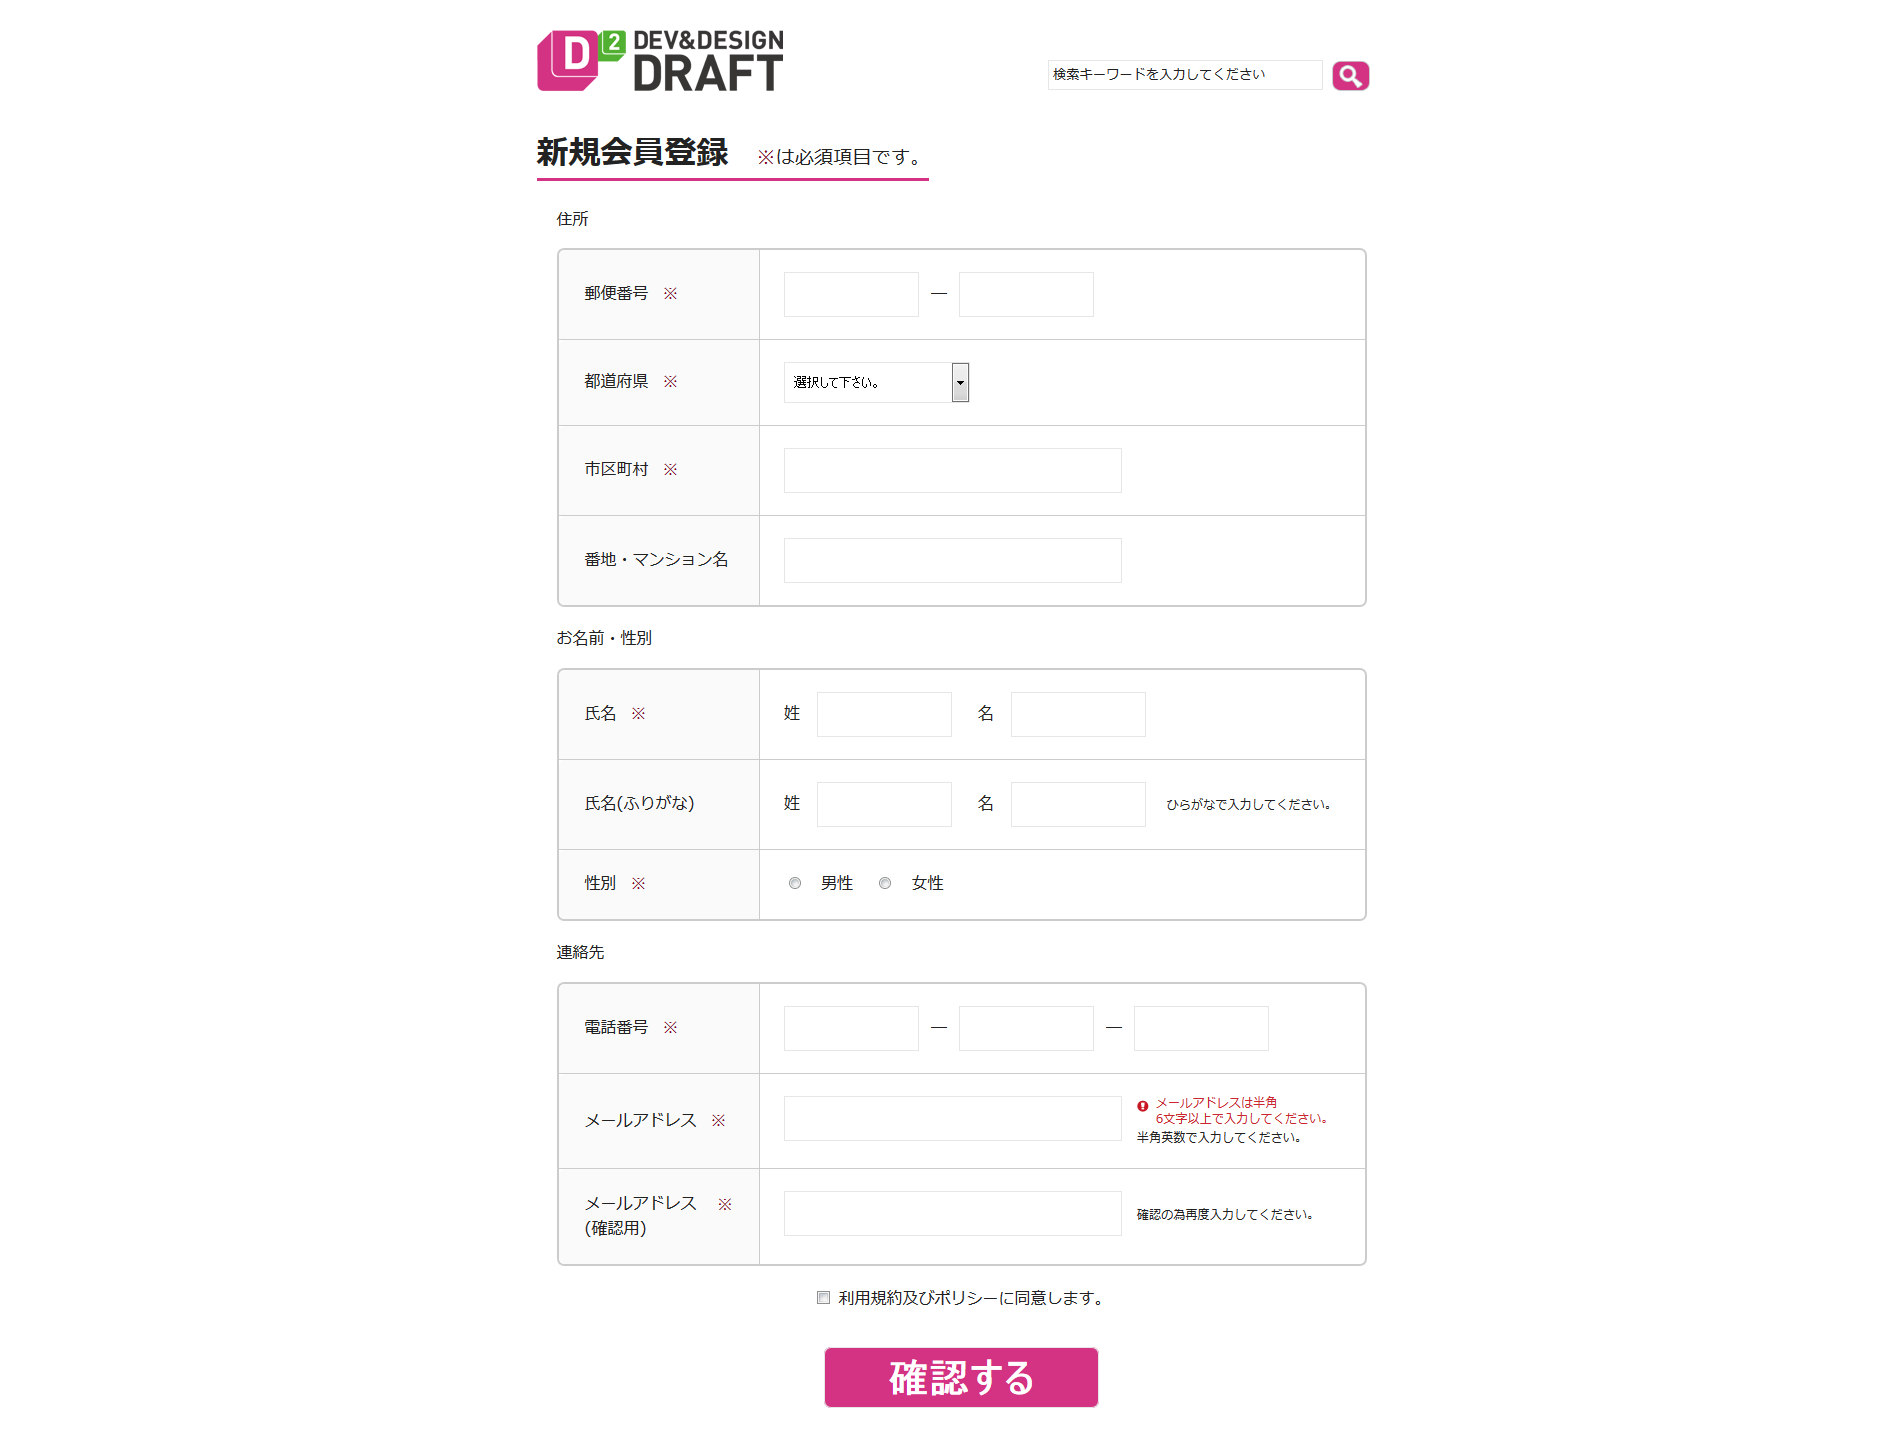
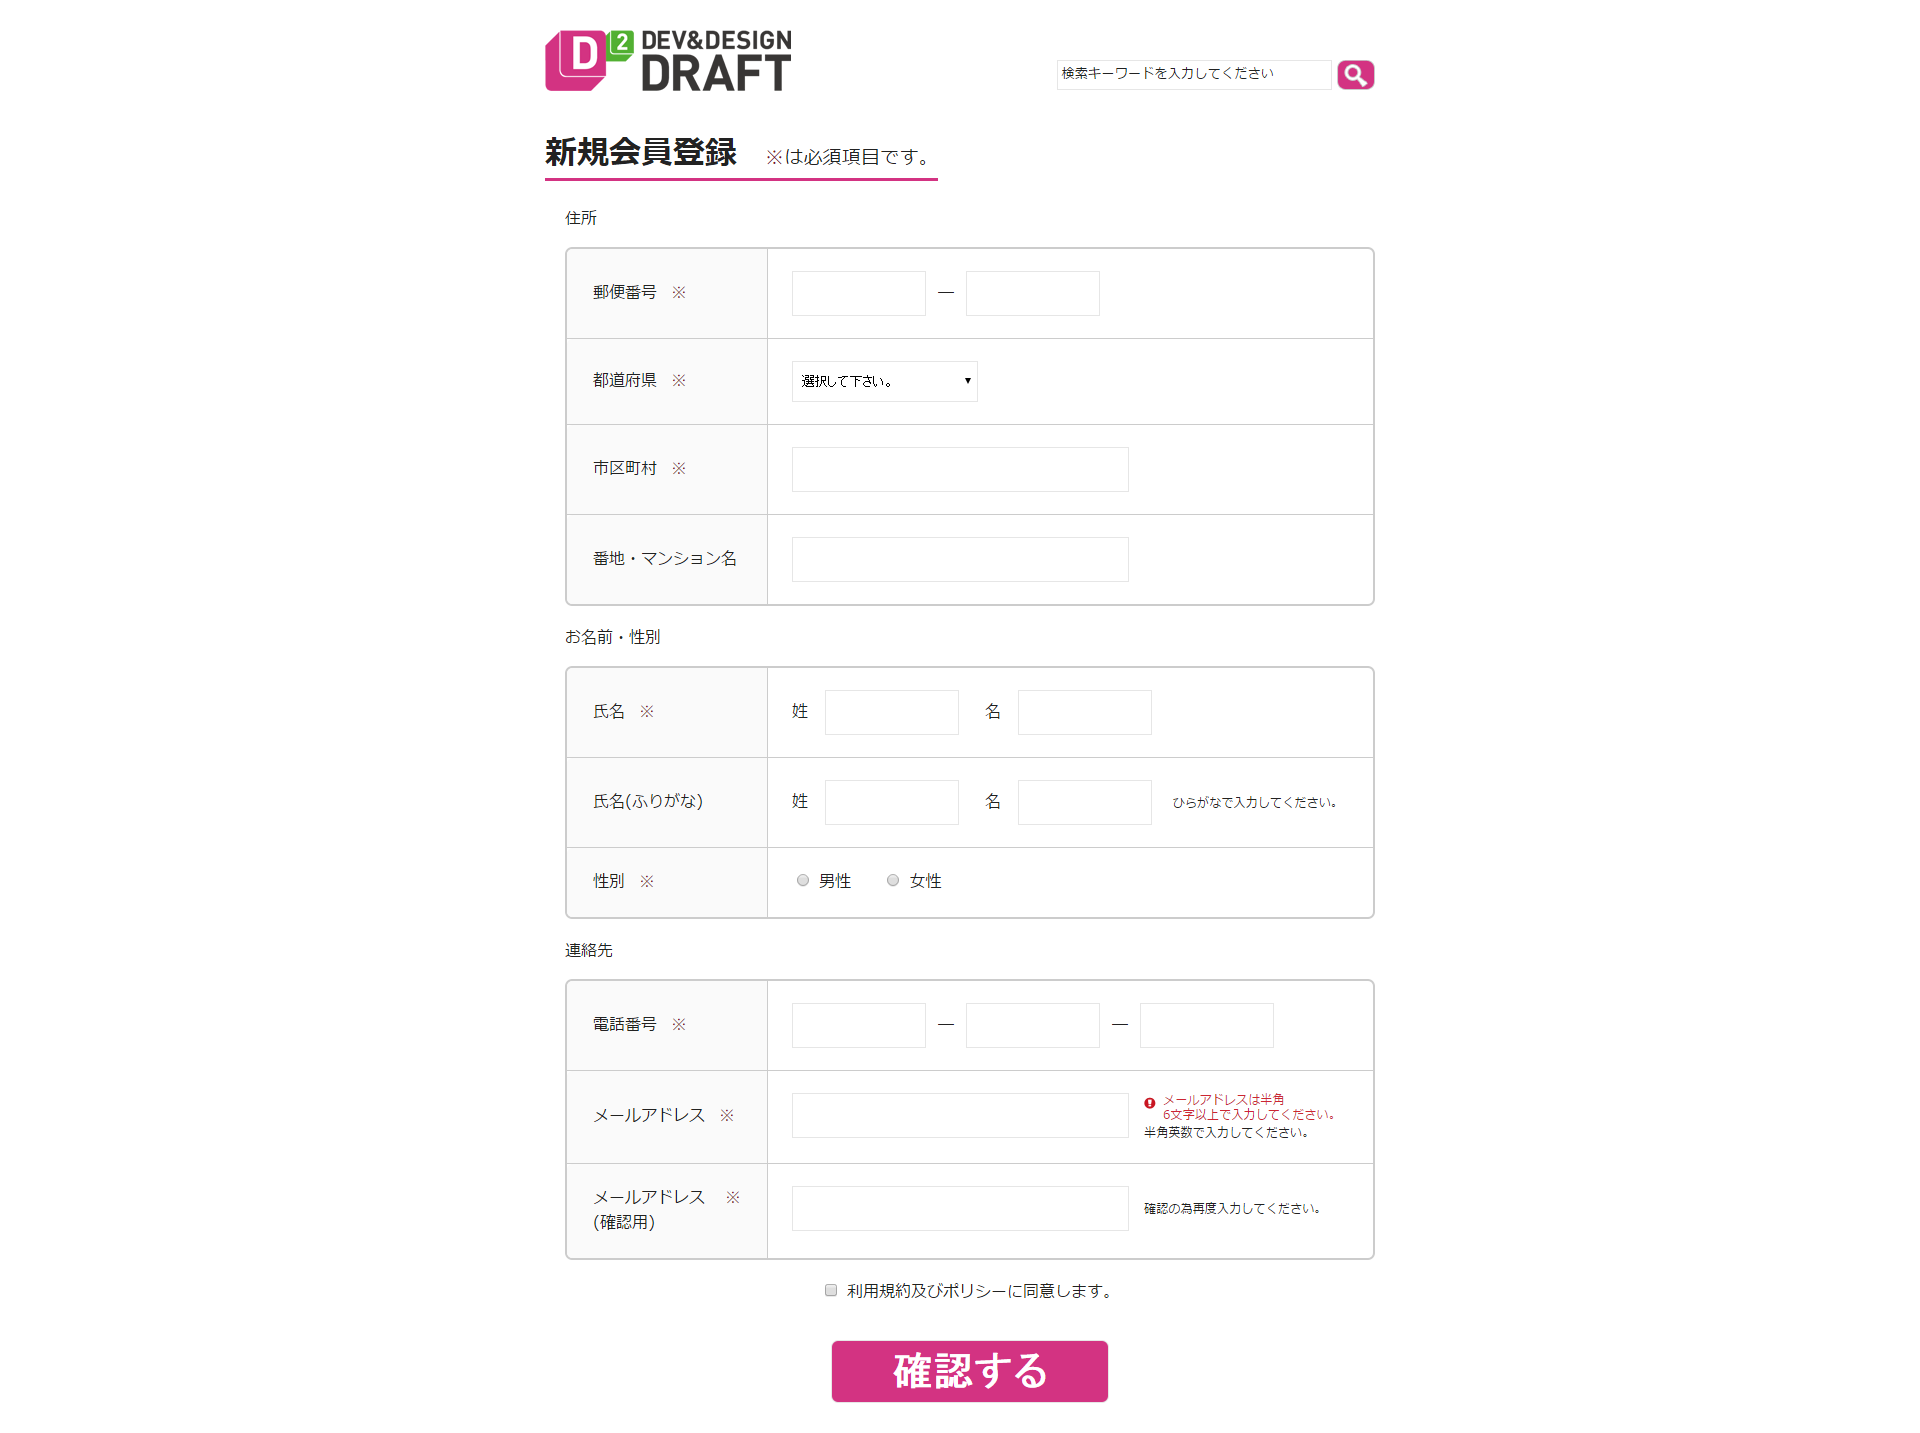
意地悪問題のラジオボタン部分のスタイルを修正しました。

diff --git a/milk/index.html b/milk/index.html
@@ -76,7 +76,7 @@
               <div class="form-item">
                 <label id="gender" class="last">性別<span>※</span></label>
                   <div class="user_action">
-                  <label for="gender_man"><input type="radio" id="gender_man" title="必須" aria-describedby="gender" name="#">男性</label>
+                  <label for="gender_man" class="radio_f"><input type="radio" id="gender_man" title="必須" aria-describedby="gender" name="#">男性</label>
                   <label for="gender_woman"><input type="radio" id="gender_woman" aria-describedby="gender" title="必須" name="#">女性</label>
                   </div>
               </div>

diff --git a/milk/style.css b/milk/style.css
@@ -228,11 +228,11 @@ select {
 }
 
 #gender_man ,#gender_woman {
-	margin-right: 19px;
+	margin-right: 9px;
 }
 
-#gender_woman {
-	margin-left: 21px;
+.radio_f {
+	margin-right: 26px;
 }
 
 #mail {
@@ -350,6 +350,10 @@ input[type='submit'] {
 
 	#gender_woman {
 		margin-left: 8px;
+	}
+
+	.radio_f {
+		margin-right:0;
 	}
 
 	.contact_address span {
